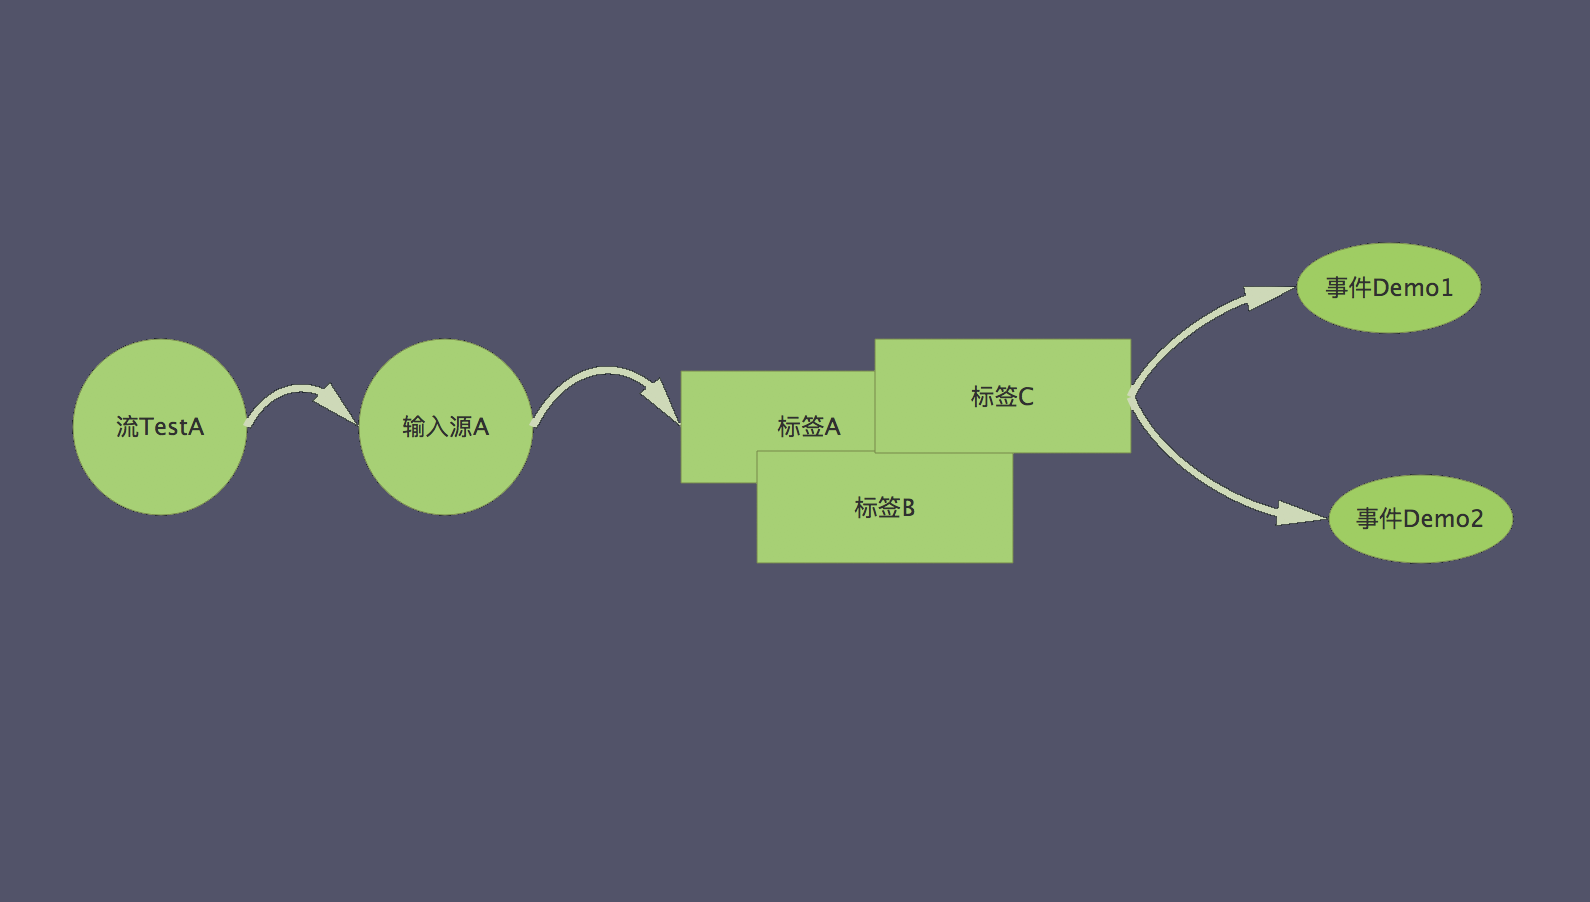
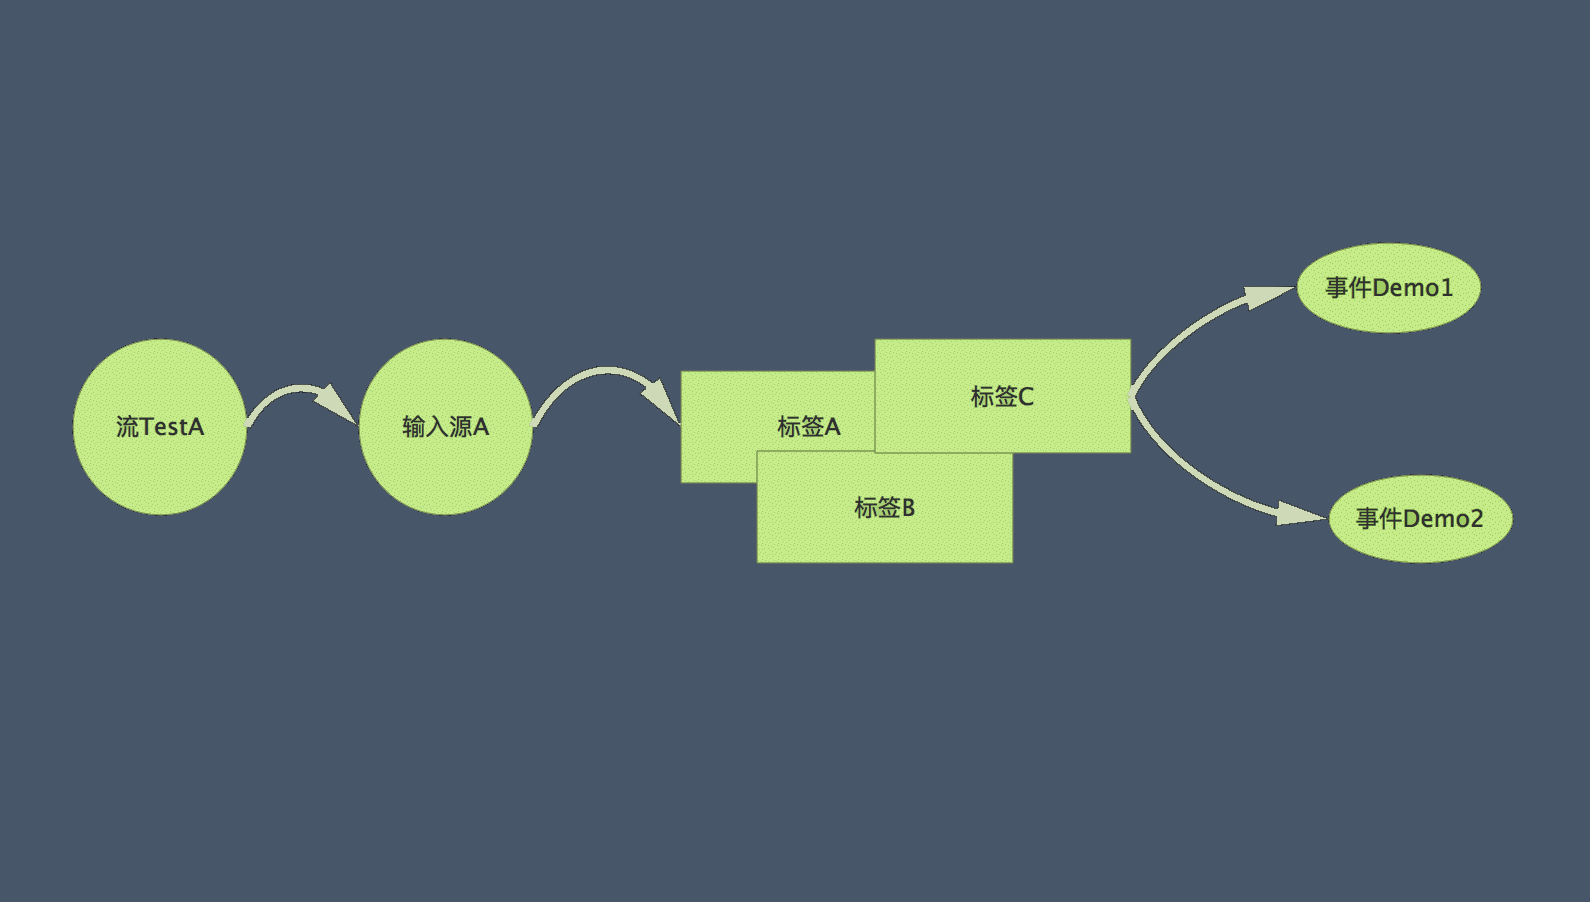
update css and pictures

diff --git a/src/data/ocspdemodata.js b/src/data/ocspdemodata.js
@@ -4,7 +4,7 @@ let demodata = [
         steamflowchartpath: "../../static/pics/evt1.png",
         data_statistic: { success: 2000, fail: 100 },
         usefulDataTrendChartDataOption: {
-            color: ["#640346", "#67C23A"],
+            color: ["#0098FF", "#67C23A"],
             textStyle: {
                 fontWeight: "bolder",
                 color: "#aaa"
@@ -58,7 +58,7 @@ let demodata = [
                     sampling: 'average',
                     itemStyle: {
                         normal: {
-                            color: 'rgb(255, 70, 131)'
+                            color: '#FCC391'
                         }
                     },
                     areaStyle: {
@@ -125,7 +125,7 @@ let demodata = [
                     sampling: 'average',
                     itemStyle: {
                         normal: {
-                            color: 'rgb(255, 70, 131)'
+                            color: '#FCC391'
                         }
                     },
                     areaStyle: {
@@ -138,7 +138,7 @@ let demodata = [
             ]
         },
         memoryRateChartDataOption: {
-            color: ["#7DDB94", "#D7DD6F"],
+            color: ["#0098FF", "#A3F889"],
             title: {
                 text: "内存比例",
                 x: "center",
@@ -178,7 +178,7 @@ let demodata = [
             ]
         },
         cpuRateChartDataOption: {
-            color: ["#67C23A", "#D7DD6F"],
+            color: ["#0098FF", "#A3F889"],
             title: {
                 text: "CPU核数比例",
                 x: "center",
@@ -271,7 +271,7 @@ let demodata = [
             ]
         },
         streamEventsOutputDataChartDataOption: {
-            color: ["#A9DC6D", "#D37C61"],
+            color: ["#C6EB89", "#17DB54"],
             title: {
                 text: '作业流事件处理数据量',
                 textStyle: {
@@ -394,7 +394,7 @@ let demodata = [
                     sampling: 'average',
                     itemStyle: {
                         normal: {
-                            color: 'rgb(255, 70, 131)'
+                            color: '#FCC391'
                         }
                     },
                     areaStyle: {
@@ -461,7 +461,7 @@ let demodata = [
                     sampling: 'average',
                     itemStyle: {
                         normal: {
-                            color: 'rgb(255, 70, 131)'
+                            color: '#FCC391'
                         }
                     },
                     areaStyle: {
@@ -474,7 +474,7 @@ let demodata = [
             ]
         },
         memoryRateChartDataOption: {
-            color: ["#7DDB94", "#D7DD6F"],
+            color: ["#0098FF", "#A3F889"],
             title: {
                 text: "内存比例",
                 x: "center",
@@ -514,7 +514,7 @@ let demodata = [
             ]
         },
         cpuRateChartDataOption: {
-            color: ["#67C23A", "#D7DD6F"],
+            color: ["#0098FF", "#A3F889"],
             title: {
                 text: "CPU核数比例",
                 x: "center",
@@ -607,7 +607,7 @@ let demodata = [
             ]
         },
         streamEventsOutputDataChartDataOption: {
-            color: ["#A9DC6D", "#D37C61","#596AD8"],
+            color: ["#C6EB89", "#17DB54","#79CDD9"],
             title: {
                 text: '作业流事件处理数据量',
                 textStyle: {

diff --git a/src/components/OCSP.vue b/src/components/OCSP.vue
@@ -491,7 +491,7 @@ export default {
   box-shadow:3px 3px 10px #aca7b3;
   border-radius:10px;
   transition: all 0.6s;
-  background:#525369;
+  background:#475669;
 }
 
 .el-carousel__item .is-active .is-animating {
